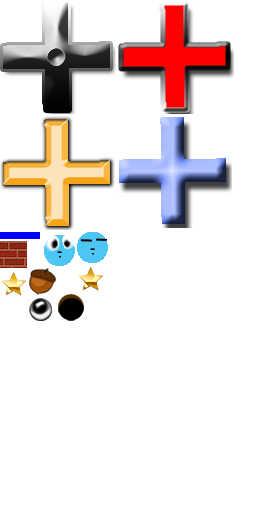
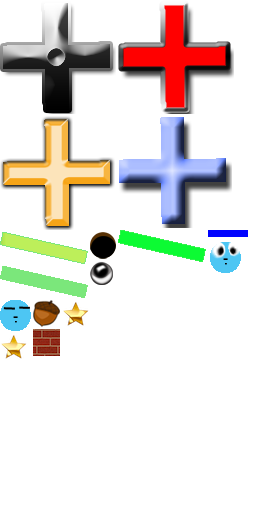
ledge added and solids done

Changed region(s): [[0.0, 0.4375, 0.9688, 0.7188]]

diff --git a/Bally.mm b/Bally.mm
@@ -84,12 +84,13 @@ static inline float mtp(float d)
         world = new b2World(gravity, doSleep); 
         world->SetContinuousPhysics(true); 
         
-        // Debug Draw functions
+  /*      // Debug Draw functions
         m_debugDraw = new GLESDebugDraw( PTM_RATIO );
         world->SetDebugDraw(m_debugDraw); 
         uint32 flags = 0;
         flags += b2DebugDraw::e_shapeBit;
         m_debugDraw->SetFlags(flags);  
+        */
         
         //initial settings
         score  = 0;
@@ -190,11 +191,11 @@ static inline float mtp(float d)
         
 		if (!muted)  {
             pause = [CCMenuItemToggle itemWithTarget:self selector:@selector(turnOnMusic)items:playItem, pauseItem, nil];
-            pause.position = ccp(screenSize.width*0.06, screenSize.height*0.90f);
+            pause.position = ccp(screenSize.width*0.03, screenSize.height*0.95f);
         }
         else {
             pause = [CCMenuItemToggle itemWithTarget:self selector:@selector(turnOnMusic)items:pauseItem, playItem, nil];
-            pause.position = ccp(screenSize.width*0.06, screenSize.height*0.90f);
+            pause.position = ccp(screenSize.width*0.03, screenSize.height*0.95f);
         }
         
 		//Create Menu with the items created before
@@ -381,6 +382,11 @@ static inline float mtp(float d)
 
 -(void)starterBoard {
     //staticBody1
+    sprite = [CCSprite spriteWithSpriteFrameName:@"ledge.png"];
+    sprite.position = ccp(480.0f/2, 50/PTM_RATIO);
+    [self addChild:sprite z:-1];
+    bodyDef1.userData = sprite;
+
     bodyDef1.position.Set(1.379107f, 8.495184f);
     bodyDef1.angle = -0.222508f;
     b2Body* staticBody1 = world->CreateBody(&bodyDef1);
@@ -423,6 +429,32 @@ static inline float mtp(float d)
     ball->CreateFixture(&fd);
 }
 
+-(ccColor3B)getMeColor {
+    int colorNum = arc4random() % 5;
+    ccColor3B myColor;
+    switch (colorNum) {
+        case 0:
+            myColor = ccBLUE;
+            break;
+        case 1:
+            myColor = ccRED;
+            break;
+        case 2:
+            myColor = ccORANGE;
+            //myColor = ccc3(255,118, 0);
+            break;
+        case 3:
+            myColor = ccMAGENTA;
+            break;
+        case 4:
+        default:
+            myColor = ccGREEN;
+            break;
+    }
+    return myColor;
+}
+
+
 -(void)compoundBody:(BOOL)isSecondSecreen {
     
     int i = 0;
@@ -431,7 +463,7 @@ static inline float mtp(float d)
     
     NSValue *val = [bodyPointsArray objectAtIndex:i++];
     CGPoint p = [val CGPointValue];
-    
+
     //polygon1
     sprite = [CCSprite spriteWithSpriteFrameName:[NSString stringWithFormat:@"cross%i.png", 5+(arc4random() % 2)]];
     //sprite = [CCSprite spriteWithSpriteFrameName:[NSString stringWithFormat:@"%@",[crossArray objectAtIndex:0]]];
@@ -599,7 +631,8 @@ static inline float mtp(float d)
     bodyDef.angle = 0.000000f;
     bodyDef.type = b2_dynamicBody;
     sprite = [CCSprite spriteWithSpriteFrameName:@"square.png"];
-    sprite.color = ccBLUE;
+    sprite.color = [self getMeColor];
+                                                        
     sprite.position = ccp(480.0f/2, 50/PTM_RATIO);
     [self addChild:sprite z:2 tag:33]; 
     bodyDef.userData = sprite;
@@ -627,6 +660,7 @@ static inline float mtp(float d)
     p = [val CGPointValue];
     sprite = [CCSprite spriteWithSpriteFrameName:@"triangle.png"];
     sprite.color = ccBLUE;
+    sprite.color = [self getMeColor];
 
     sprite.position = ccp(480.0f/2, 50/PTM_RATIO);
     [self addChild:sprite z:2 tag:33];  
@@ -657,6 +691,8 @@ static inline float mtp(float d)
     p = [val CGPointValue];
     sprite = [CCSprite spriteWithSpriteFrameName:@"circle.png"];
     sprite.color = ccBLUE;
+    sprite.color = [self getMeColor];
+
     sprite.position = ccp(480.0f/2, 50/PTM_RATIO);
     [self addChild:sprite z:2 tag:33]; 
     bodyDef.userData = sprite;
@@ -887,11 +923,11 @@ static inline float mtp(float d)
         {
             myPosition.x = -MIN(screenSize.width * 2.0f - screenSize.width, position.x * PTM_RATIO - screenSize.width / 2.0f);
             self.position = myPosition;
-            pause.position = ccp((screenSize.width*0.06)+480.0f, screenSize.height*0.90f);
+            pause.position = ccp((screenSize.width*0.03)+480.0f, screenSize.height*0.95f);
         }
         else if (position.x < screenSize.width / 2.0f / PTM_RATIO) {
            // [pause runAction:[CCMoveTo actionWithDuration:0.05f  position:ccp(0.0f, pause.position.y)]];
-            pause.position = ccp(screenSize.width*0.06, screenSize.height*0.90f);
+            pause.position = ccp(screenSize.width*0.03, screenSize.height*0.95f);
         }
     
     }

diff --git a/Bally/Bally.h b/Bally/Bally.h
@@ -69,4 +69,6 @@
 - (void)scored:(b2Body*)bodyB;
 -(void)starterBoard;
 -(void)randomScreenLayout;
+-(ccColor3B)getMeColor;
+
 @end
